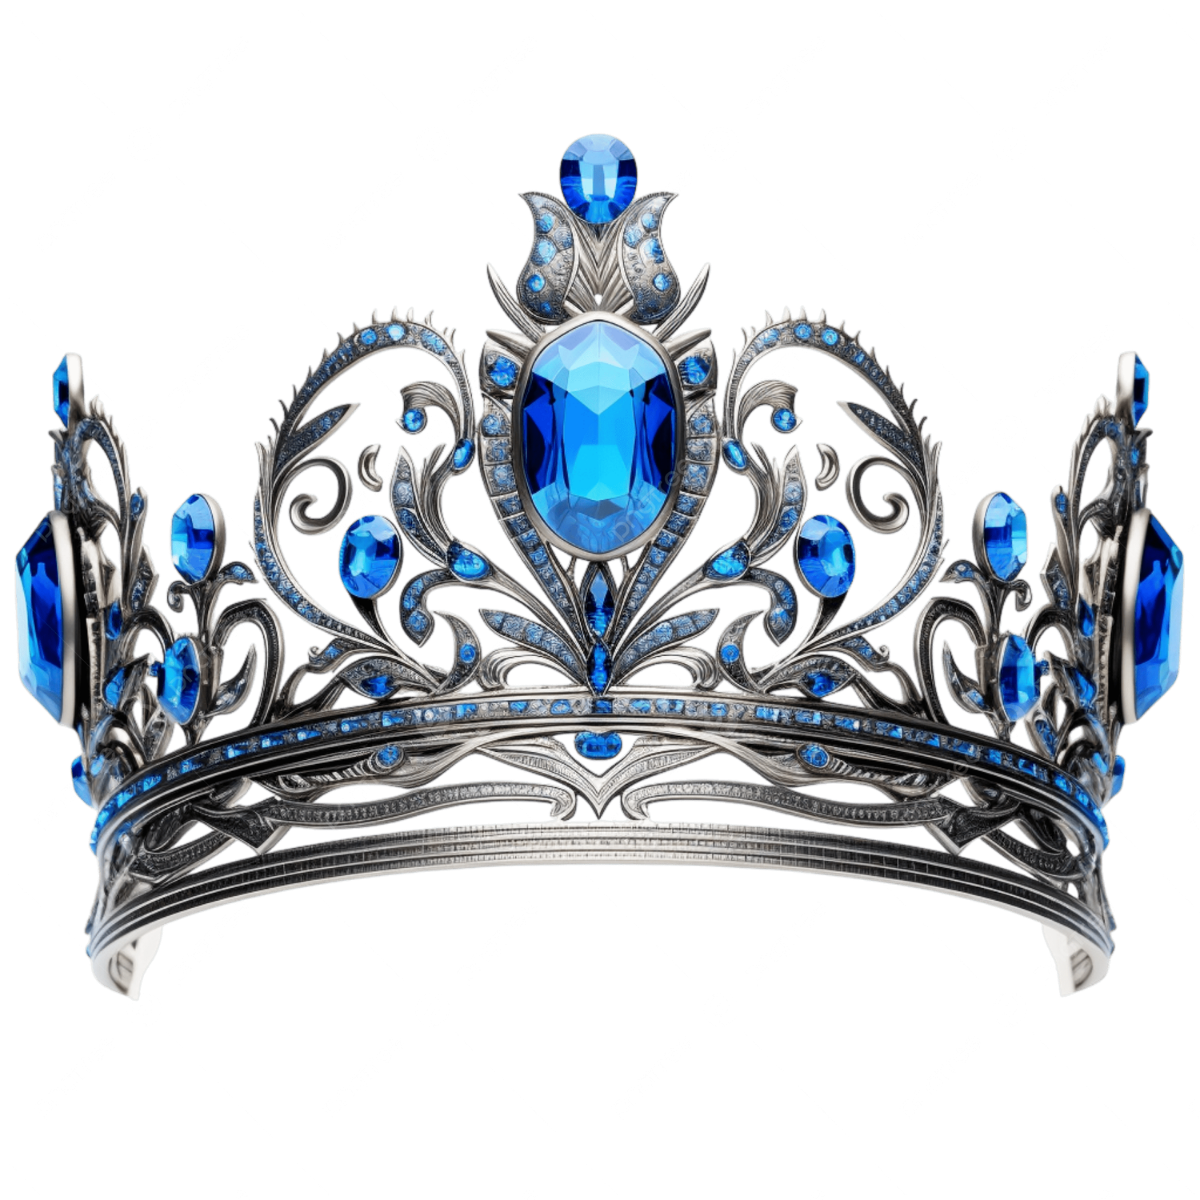
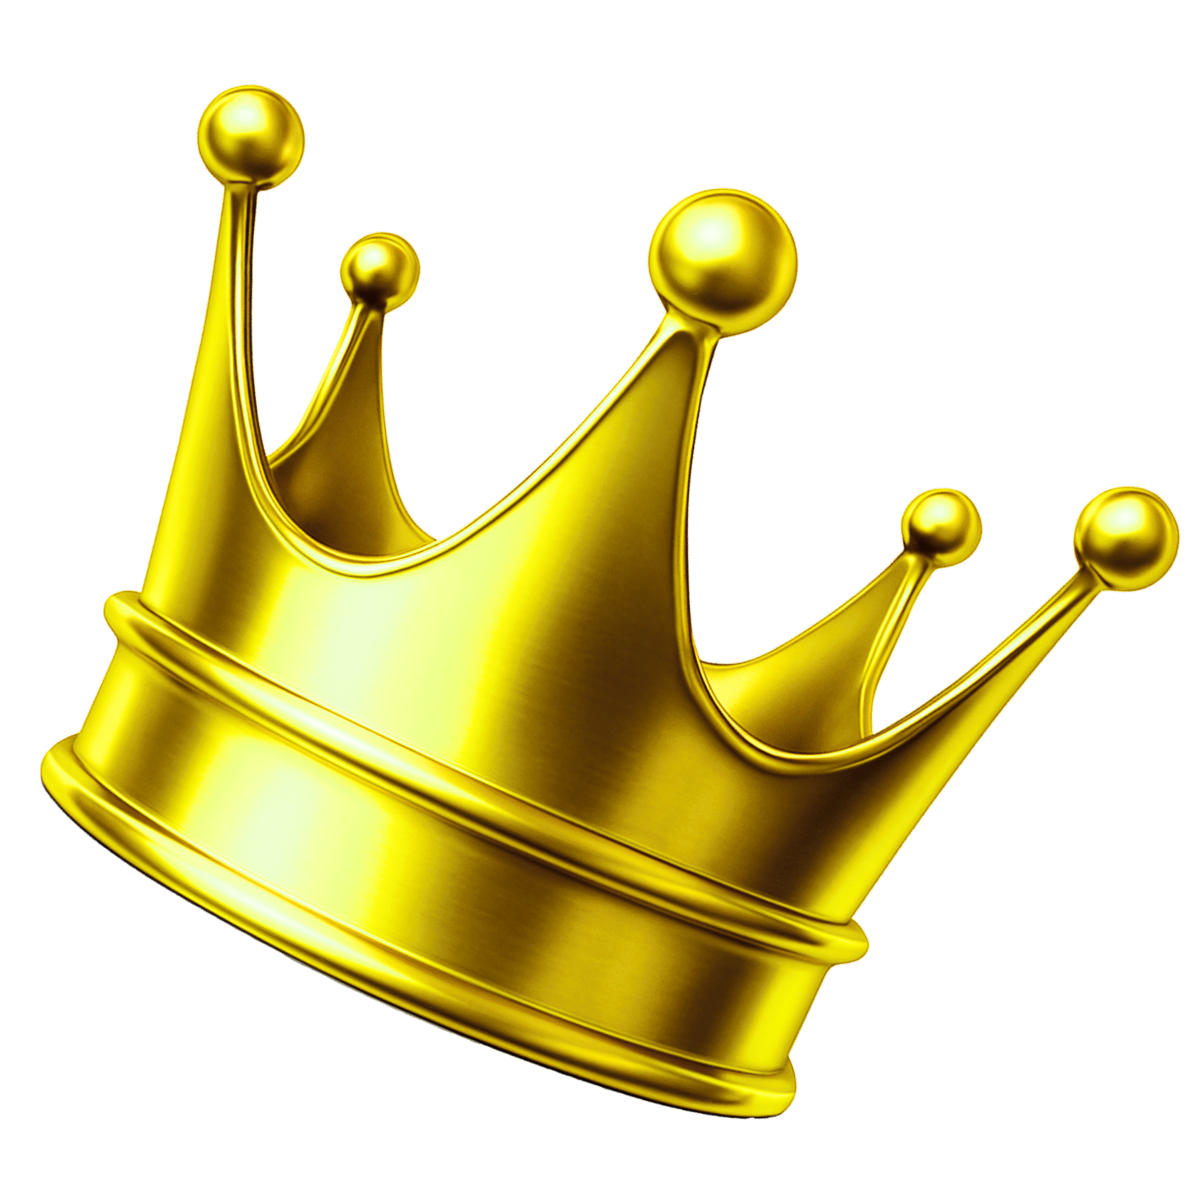
Implemented the Leaders card and changed the crown to gold one

diff --git a/style.css b/style.css
@@ -2052,3 +2052,102 @@ body::after{
 
 
 }
+
+.middle-content{
+
+    display:flex;
+
+    flex-direction:column;
+
+    height:100%;
+
+    gap:12px;
+
+}
+
+
+
+.middle-content .chart-card{
+
+    flex:1;
+
+    min-height:0;
+
+}
+
+
+
+
+.leading-card{
+
+
+    height:60px;
+
+    flex-shrink:0;
+
+
+    width:100%;
+
+
+
+    display:flex;
+
+    justify-content:center;
+
+    align-items:center;
+
+
+
+    border-radius:22px;
+
+
+
+    background:
+
+    linear-gradient(
+
+        145deg,
+
+        rgba(255,255,255,.16),
+
+        rgba(255,255,255,.08)
+
+    );
+
+
+
+    backdrop-filter:blur(25px);
+
+
+
+    border:
+
+    1px solid rgba(255,255,255,.18);
+
+
+
+    box-shadow:
+
+    0 20px 50px rgba(0,0,0,.35);
+
+
+
+    font-size:22px;
+
+    font-weight:800;
+
+    letter-spacing:1px;
+
+}
+
+#leadingText{
+
+    font-size:24px;
+
+    font-weight:900;
+
+    text-transform:uppercase;
+
+    letter-spacing:1px;
+
+}

diff --git a/script.js b/script.js
@@ -116,7 +116,66 @@ async function loadDashboard() {
 
 }
 
+// ==========================================================
+// UPDATE LEADING CARD
+// ==========================================================
 
+function updateLeadingCard(
+    rasikaRevenue,
+    ramziRevenue
+){
+
+    const leadingText =
+        document.getElementById("leadingText");
+
+
+    const difference =
+        Math.abs(
+            rasikaRevenue - ramziRevenue
+        ).toLocaleString();
+
+
+
+    if(rasikaRevenue > ramziRevenue){
+
+
+        leadingText.innerHTML =
+
+        `
+        🏆 RASIKA IS LEADING BY ${difference}
+        `;
+
+
+    }
+
+
+    else if(ramziRevenue > rasikaRevenue){
+
+
+        leadingText.innerHTML =
+
+        `
+        🏆 RAMZI IS LEADING BY ${difference}
+        `;
+
+
+    }
+
+
+    else{
+
+
+        leadingText.innerHTML =
+
+        `
+        🤝 BOTH ARE CURRENTLY EQUAL
+        `;
+
+
+    }
+
+
+}
 
 // ==========================================================
 // CREATE BAR CHART
@@ -342,6 +401,11 @@ function createRevenueChart(
         }
 
     });
+
+    updateLeadingCard(
+    rasikaRevenue,
+    ramziRevenue
+);
 
 }
 

diff --git a/index.html b/index.html
@@ -202,46 +202,59 @@
         ================================= -->
 
 
-        <section class="chart-card">
+        <div class="middle-content">
 
 
-
-            <div class="chart-header">
-
-
-                <h2>
-
-                    RASIKA VS RAMZI
-
-                </h2>
+    <section class="chart-card">
 
 
-
-                <p>
-
-                    Revenue Comparison
-
-                </p>
+        <div class="chart-header">
 
 
-            </div>
+            <h2>
+                RASIKA VS RAMZI
+            </h2>
 
+
+            <p>
+                Revenue Comparison
+            </p>
+
+
+        </div>
 
 
 
 
-            <div class="chart-container">
+        <div class="chart-container">
 
 
-                <canvas id="revenueChart"></canvas>
+            <canvas id="revenueChart"></canvas>
 
 
-            </div>
+        </div>
+
+
+
+    </section>
 
 
 
 
-        </section>
+
+    <div class="leading-card" id="leadingCard">
+
+
+        <span id="leadingText">
+
+        </span>
+
+
+    </div>
+
+
+
+</div>
 
 
 